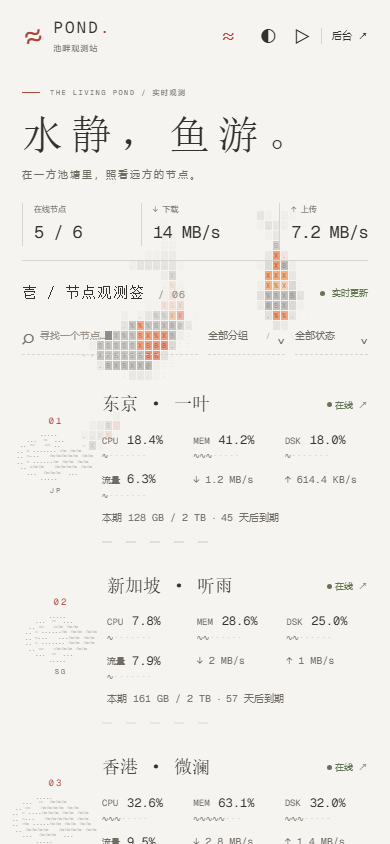
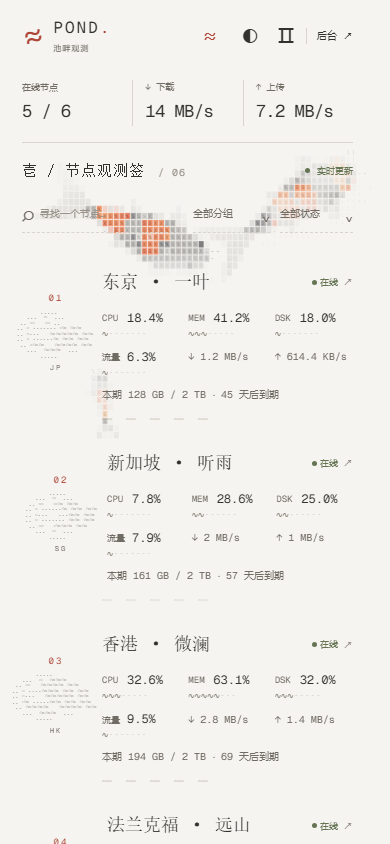
style: simplify the default home and refresh previews

diff --git a/src/pond-page.css b/src/pond-page.css
@@ -1473,3 +1473,39 @@ button:focus-visible, a:focus-visible, input:focus-visible, select:focus-visible
   .home-ambient .notice { grid-column: 1 / -1; order: 3; margin: 0; }
   .home-ambient .filters { grid-template-columns: minmax(0,1fr) 160px 140px; gap: 24px; }
 }
+
+/* With no intro copy, the readings form a quiet masthead directly above the roster. */
+.home-compact .scene-heading {
+  display: flex;
+  flex-direction: column;
+  align-items: stretch;
+  gap: 16px;
+  padding: 10px 0 20px;
+  margin-bottom: 0;
+}
+.home-compact .summary {
+  display: grid;
+  grid-template-columns: repeat(3, minmax(0, 1fr));
+  width: 100%;
+  gap: 0;
+  margin: 0;
+  padding: 0;
+}
+.home-compact .summary:before { display: none; }
+.home-compact .summary > div { padding-left: clamp(12px, 1.5vw, 24px); gap: 4px; }
+.home-compact .summary > div:first-child { padding-left: 0; border-left: 0; }
+.home-compact .summary strong { font-size: 22px; }
+.home-compact .notice { position: static; order: 2; margin: 0; max-width: none; }
+.home-compact .roster-column { padding-top: 22px; }
+@media (min-width: 1100px) {
+  .home-compact.home-ambient .summary > div { flex-direction: row; align-items: baseline; gap: 16px; }
+}
+@media (max-width: 1099px) {
+  .home-compact .water-column { margin: 18px 0 12px; }
+}
+@media (max-width: 639px) {
+  .home-compact .scene-heading { padding: 8px 0 16px; }
+  .home-compact .summary span { font-size: 9px; }
+  .home-compact .summary strong { font-size: clamp(16px, 4.4vw, 19px); }
+  .home-compact .roster-column { padding-top: 16px; }
+}

diff --git a/src/App.tsx b/src/App.tsx
@@ -212,6 +212,7 @@ export default function App() {
   };
   const pondEnabled = settings.pond_enabled && !pondFailed;
   const ambient = route !== null || display === "ambient";
+  const hasIntro = Boolean(settings.hero_eyebrow.trim() || settings.hero_title.trim() || settings.hero_subtitle.trim());
   return (
     <>
       <PondLayer
@@ -223,7 +224,7 @@ export default function App() {
         onUnavailable={unavailable}
       />
       {ambient && <div className="ambient-water" data-pond-habitat data-pond-overflow="visible" data-pond-scene="ambient" aria-hidden="true" />}
-      <div className={"site-shell" + (route !== null ? " has-detail" : "") + (ambient ? " ambient-scene" : "") + (route === null && ambient ? " home-ambient" : "")}>
+      <div className={"site-shell" + (route !== null ? " has-detail" : "") + (ambient ? " ambient-scene" : "") + (route === null && ambient ? " home-ambient" : "") + (route === null && !hasIntro ? " home-compact" : "")}>
         <a className="skip-link" href="#main">
           跳到主要内容
         </a>
@@ -292,7 +293,7 @@ export default function App() {
           </nav>
         </header>
         <section className="scene-heading" aria-label="池畔概览">
-          {(settings.hero_eyebrow.trim() || settings.hero_title.trim() || settings.hero_subtitle.trim()) && (
+          {hasIntro && (
             <div className="intro" data-pond-avoid>
               {settings.hero_eyebrow.trim() && (
                 <div className="eyebrow">

diff --git a/README.md b/README.md
@@ -38,7 +38,7 @@
 - **实时状态**：CPU、内存、磁盘与上下行速率一目了然，在线、离线、等待上报和异常状态各有标识。
 - **流量与账期**：字符波纹呈现本期流量占比，同时展示用量、额度和到期信息。
 - **搜索与筛选**：按名称、分组、在线状态查找节点，汇总数字随筛选结果变化。
-- **资源与延迟**：查看历史曲线、网络平均值与峰值，以及延迟和丢包情况。
+- **资源与延迟**：查看资源历史与网络平均值、峰值；各探测线路的延迟汇聚在同一张图里，保留各自的名称、断点与窗口丢包率。
 
 鱼群独立于节点存在。节点刷新、搜索或切换页面时，游动不会因此重新开始。
 
@@ -51,11 +51,11 @@
 <table>
   <tr>
     <th width="50%">节点档案 · 纸白</th>
-    <th width="50%">历史曲线 · 暖黑</th>
+    <th width="50%">线路延迟 · 暖黑</th>
   </tr>
   <tr>
     <td><img src="previews/detail-light.png" alt="居中展开的节点详情与全屏锦鲤背景"></td>
-    <td><img src="previews/history-dark.png" alt="暖黑配色下的资源与网络历史曲线"></td>
+    <td><img src="previews/history-dark.png" alt="暖黑配色下，多条探测线路在同一张延迟图中对照"></td>
   </tr>
 </table>
 
@@ -98,9 +98,9 @@
 | 设置 | 默认值 | 说明 |
 | --- | --- | --- |
 | 公告 | 空 | 在首页展示一段站点公告 |
-| 首页小标题 | THE LIVING POND / 实时观测 | 主标题上方的文字，留空隐藏 |
-| 首页标题 | 水静，鱼游。 | 首页主标题，留空隐藏 |
-| 首页副标题 | 在一方池塘里，照看远方的节点。 | 主标题下方的文字，留空隐藏 |
+| 首页小标题 | 空 | 主标题上方的文字，留空隐藏 |
+| 首页标题 | 空 | 首页主标题，留空隐藏 |
+| 首页副标题 | 空 | 主标题下方的文字，留空隐藏 |
 | 默认背景色 | 跟随系统 | 可选纸白（浅色）、暖黑（深色）或跟随系统 |
 | 默认显示模式 | 水庭模式 | 可选水庭模式或游鱼背景模式 |
 | 显示锦鲤池塘 | 开启 | 控制是否显示游鱼 |
@@ -108,6 +108,8 @@
 | 显示到期信息 | 开启 | 控制节点到期信息的展示 |
 
 后台设置决定访客首次打开页面时的背景色与显示模式。访客手动切换过后，优先使用当前浏览器保存的个人选择。
+
+首页默认直接呈现实时汇总、节点名册与池塘。需要标题文案时，可在主题设置中填写；已有的自定义文案会保留，将三项清空即可使用紧凑布局。
 
 ## 开源许可
 
